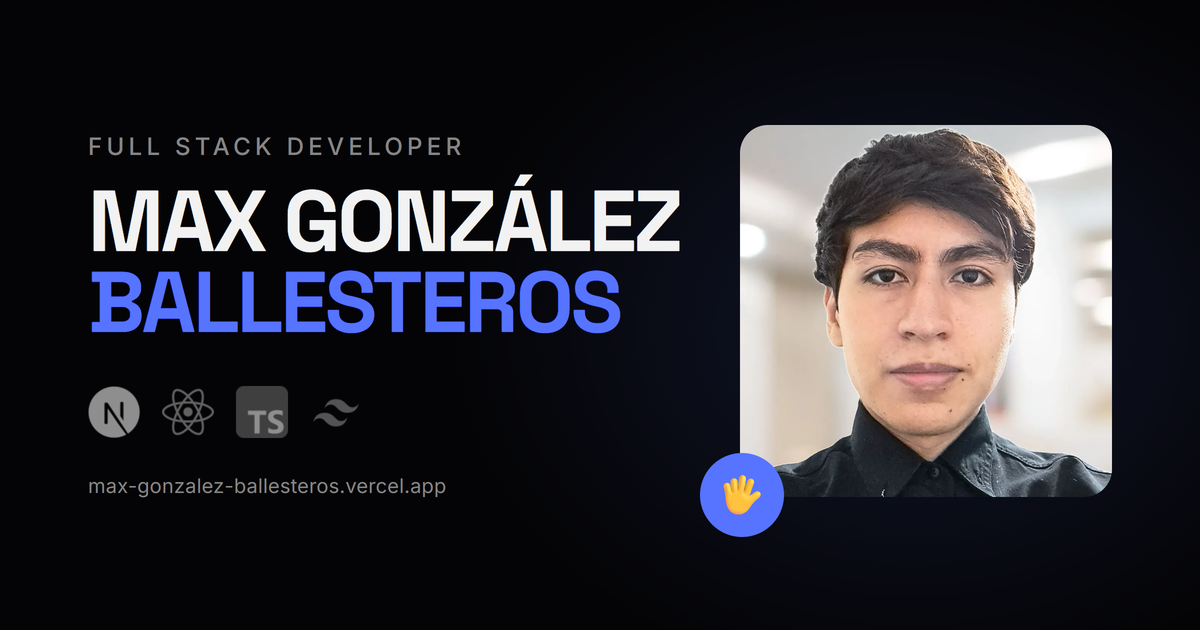
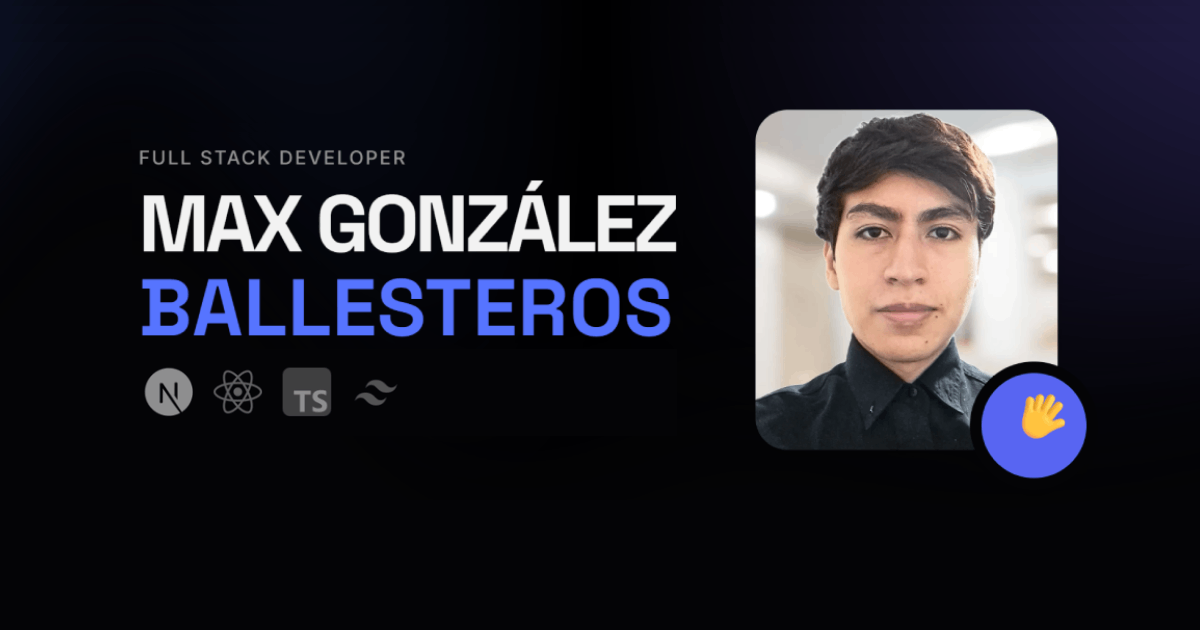
feat(identity): adopt the owner's Open Graph card and retire the generator
The owner designed the final card by hand at 1200x630 and prefers it to the
generated composition: more air around the block, a portrait frame that crops
less of the photo, and no URL, which the platform already shows in the
preview. The hand-made file keeps a quantised palette; the owner checked the
result on an OLED panel and accepted it, and the page never downloads this
image.

`scripts/og-image.mjs` and the `og:image` script are removed: they produced a
different composition, and any run would have overwritten the design. The
file stays in history if the layout is ever needed again.

Verified locally: the head emits the new hash for `og:image` and
`twitter:image` with 1200x630, and the server returns it as image/png.

Docs: docs/site-identity.md - the card is a designed asset, not generated
Risk: none

diff --git a/docs/site-identity.md b/docs/site-identity.md
@@ -22,8 +22,7 @@ es presentación verificable.
 | `app/robots.ts` | permite todo y apunta al sitemap absoluto | — |
 | `app/sitemap.ts` | home + un entry por proyecto, desde `data/projects` | — |
 | `components/structured-data.tsx` | JSON-LD `Person` + `WebSite` con `sameAs` | — |
-| `scripts/og-image.mjs` | renderiza la tarjeta Open Graph desde HTML con las fuentes reales | `pnpm og:image` |
-| `app/opengraph-image.png` | tarjeta 1200×630; Next emite `og:image` y `twitter:image` | `pnpm og:image` |
+| `app/opengraph-image.png` | tarjeta 1200×630; Next emite `og:image` y `twitter:image` | a mano |
 | `app/opengraph-image.alt.txt` | alt de la tarjeta | a mano |
 
 ## Reglas que no son obvias
@@ -43,12 +42,9 @@ es presentación verificable.
   en build es frágil y Google ignora los otros dos.
 - **El JSON-LD escapa `<`.** El grafo es estático, pero un valor con `<` no debe
   poder cerrar el `<script>`.
-- **La tarjeta OG se renderiza con Chromium, no con SVG.** librsvg resuelve las
-  fuentes por fontconfig y caería a una sans del sistema sin avisar; el script
-  verifica que Space Grotesk e Inter cargaron antes de capturar. Se renderiza a
-  2× y se reduce a 1200×630 para que el eyebrow y la URL no salgan blandos.
-- **El nombre de la tarjeta sale de `lib/site.ts`.** Cambiar el título o el rol
-  obliga a correr `pnpm og:image`; el PNG está commiteado.
+- **La tarjeta OG es un asset diseñado, no generado.** Se edita a mano a
+  1200×630 y se commitea. Si cambia el nombre, el rol o la foto, se rehace. No
+  hay comando: un generador producía otra composición y habría sobrescrito esta.
 
 ## Pasos manuales
 
@@ -58,10 +54,8 @@ es presentación verificable.
 2. **El favicon en Google no es inmediato.** Google cachea el icono y puede
    tardar semanas; ninguna API lo fuerza. Se comprueba en Search Console o en el
    resultado, no en el código.
-3. **Imagen Open Graph.** Ya no es manual: `pnpm og:image` la renderiza desde
-   `lib/site.ts` y la foto del hero, a 1200×630. Se corre tras cambiar el
-   nombre, el rol o la foto. Requiere Chrome instalado o el Chromium de
-   Playwright.
+3. **Imagen Open Graph.** Es un asset diseñado (1200×630). Rehacerla a mano si
+   cambia el nombre, el rol o la foto; no hay comando que la regenere.
 
 ## Lo que no se hace
 

diff --git a/odd/tasks/site-identity.md b/odd/tasks/site-identity.md
@@ -28,9 +28,9 @@ resultado y lo que se ve al compartir el link. No hay trabajo de posicionamiento
   ejecutarlo, y me digas qué pasos son manuales, cuáles tú no podrías hacer».
 - **S3** — El título de la home lleva el nombre corto y el rol, y el rol
   coincide con el hero: `Max González Ballesteros — Full Stack Developer`.
-- **S4** — La tarjeta Open Graph se genera dentro del repo, a 1200×630, con la
-  foto del hero y las fuentes reales, siguiendo la dirección que el owner aportó
-  como referencia. Se regenera con `pnpm og:image`.
+- **S4** — La tarjeta Open Graph es un asset diseñado por el owner, a 1200×630,
+  adoptado como definitivo. No hay generador: se rehace a mano si cambia el
+  nombre, el rol o la foto.
 - **S5** — El dominio canónico se queda como está. Cita: «Se queda por ahora
   max-gonzalez-ballesteros.vercel.app, no pienso pagar dominio».
 - **S6** — No se persigue SEO genérico: sin contenido, sin keywords, sin
@@ -88,5 +88,11 @@ verificación de CI y anota los commits en este documento.
 - **L7 — la tarjeta OG se construye en el repo.** El owner presentó un mockup
   generado con Gemini (1537×751, eyebrow "SOFTWARE ENGINEER", foto de
   marcador). Se adopta su composición y se corrige: 1200×630 exactos, eyebrow
-  alineado al rol, foto real del hero, fuentes del sitio. La genera
-  `pnpm og:image`.
+  alineado al rol, foto real del hero, fuentes del sitio. Se generó con
+  `scripts/og-image.mjs`.
+- **L8 — la tarjeta final es del owner.** «mi imagen es la mejor. Yo tengo OLED y
+  el escalonado no es notorio. copia la imagen a /app y el resto de pasos».
+  Decisión: se adopta `og-definitiva.png` (1200×630) como
+  `app/opengraph-image.png`; se retira el generador para que ningún comando
+  sobrescriba su diseño. La cuantización de paleta queda aceptada por el owner
+  tras verificarla en su pantalla.
